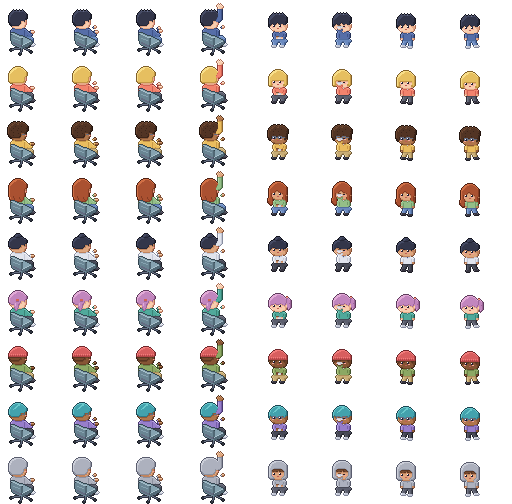
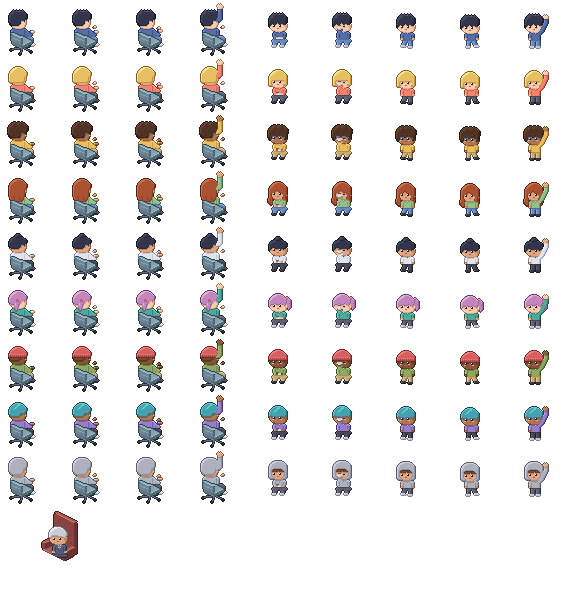
feat(office): boss desk art
Add a walnut executive desk (bossDesk) and the boss, seated in a
high-backed leather chair in a suit with a red tie, sharing one 96x88
frame; the generator clears the boss pixels the desk covers. Add a
standing raised-hand pose (standRaise) to every look for employees
waiting at the boss desk. New ramps: walnut, leather, suit, hairSilver.
The contact sheet shows the boss at the desk.

diff --git a/src/renderer/assets/office/layout.generated.ts b/src/renderer/assets/office/layout.generated.ts
@@ -18,19 +18,20 @@ export const FURNITURE_LAYOUT = {
   sofa: { x: 0, y: 126, w: 72, h: 52, anchorX: 18, anchorY: 24 },
   coffeeTable: { x: 74, y: 126, w: 36, h: 30, anchorX: 14, anchorY: 12 },
   rug: { x: 112, y: 126, w: 80, h: 41, anchorX: 32, anchorY: 0 },
+  bossDesk: { x: 0, y: 180, w: 96, h: 88, anchorX: 24, anchorY: 50 },
 } as const;
 
 /** Character frames in characters.png: one row per look, one column per pose. */
 export const CHARACTER_LAYOUT = {
-  spiky: { sit: { x: 0, y: 0, w: 64, h: 56 }, type1: { x: 64, y: 0, w: 64, h: 56 }, type2: { x: 128, y: 0, w: 64, h: 56 }, raiseHand: { x: 192, y: 0, w: 64, h: 56 }, rest1: { x: 256, y: 0, w: 64, h: 56 }, rest2: { x: 320, y: 0, w: 64, h: 56 }, walk1: { x: 384, y: 0, w: 64, h: 56 }, walk2: { x: 448, y: 0, w: 64, h: 56 } },
-  bob: { sit: { x: 0, y: 56, w: 64, h: 56 }, type1: { x: 64, y: 56, w: 64, h: 56 }, type2: { x: 128, y: 56, w: 64, h: 56 }, raiseHand: { x: 192, y: 56, w: 64, h: 56 }, rest1: { x: 256, y: 56, w: 64, h: 56 }, rest2: { x: 320, y: 56, w: 64, h: 56 }, walk1: { x: 384, y: 56, w: 64, h: 56 }, walk2: { x: 448, y: 56, w: 64, h: 56 } },
-  curly: { sit: { x: 0, y: 112, w: 64, h: 56 }, type1: { x: 64, y: 112, w: 64, h: 56 }, type2: { x: 128, y: 112, w: 64, h: 56 }, raiseHand: { x: 192, y: 112, w: 64, h: 56 }, rest1: { x: 256, y: 112, w: 64, h: 56 }, rest2: { x: 320, y: 112, w: 64, h: 56 }, walk1: { x: 384, y: 112, w: 64, h: 56 }, walk2: { x: 448, y: 112, w: 64, h: 56 } },
-  long: { sit: { x: 0, y: 168, w: 64, h: 56 }, type1: { x: 64, y: 168, w: 64, h: 56 }, type2: { x: 128, y: 168, w: 64, h: 56 }, raiseHand: { x: 192, y: 168, w: 64, h: 56 }, rest1: { x: 256, y: 168, w: 64, h: 56 }, rest2: { x: 320, y: 168, w: 64, h: 56 }, walk1: { x: 384, y: 168, w: 64, h: 56 }, walk2: { x: 448, y: 168, w: 64, h: 56 } },
-  bun: { sit: { x: 0, y: 224, w: 64, h: 56 }, type1: { x: 64, y: 224, w: 64, h: 56 }, type2: { x: 128, y: 224, w: 64, h: 56 }, raiseHand: { x: 192, y: 224, w: 64, h: 56 }, rest1: { x: 256, y: 224, w: 64, h: 56 }, rest2: { x: 320, y: 224, w: 64, h: 56 }, walk1: { x: 384, y: 224, w: 64, h: 56 }, walk2: { x: 448, y: 224, w: 64, h: 56 } },
-  ponytail: { sit: { x: 0, y: 280, w: 64, h: 56 }, type1: { x: 64, y: 280, w: 64, h: 56 }, type2: { x: 128, y: 280, w: 64, h: 56 }, raiseHand: { x: 192, y: 280, w: 64, h: 56 }, rest1: { x: 256, y: 280, w: 64, h: 56 }, rest2: { x: 320, y: 280, w: 64, h: 56 }, walk1: { x: 384, y: 280, w: 64, h: 56 }, walk2: { x: 448, y: 280, w: 64, h: 56 } },
-  beanie: { sit: { x: 0, y: 336, w: 64, h: 56 }, type1: { x: 64, y: 336, w: 64, h: 56 }, type2: { x: 128, y: 336, w: 64, h: 56 }, raiseHand: { x: 192, y: 336, w: 64, h: 56 }, rest1: { x: 256, y: 336, w: 64, h: 56 }, rest2: { x: 320, y: 336, w: 64, h: 56 }, walk1: { x: 384, y: 336, w: 64, h: 56 }, walk2: { x: 448, y: 336, w: 64, h: 56 } },
-  sidepart: { sit: { x: 0, y: 392, w: 64, h: 56 }, type1: { x: 64, y: 392, w: 64, h: 56 }, type2: { x: 128, y: 392, w: 64, h: 56 }, raiseHand: { x: 192, y: 392, w: 64, h: 56 }, rest1: { x: 256, y: 392, w: 64, h: 56 }, rest2: { x: 320, y: 392, w: 64, h: 56 }, walk1: { x: 384, y: 392, w: 64, h: 56 }, walk2: { x: 448, y: 392, w: 64, h: 56 } },
-  hood: { sit: { x: 0, y: 448, w: 64, h: 56 }, type1: { x: 64, y: 448, w: 64, h: 56 }, type2: { x: 128, y: 448, w: 64, h: 56 }, raiseHand: { x: 192, y: 448, w: 64, h: 56 }, rest1: { x: 256, y: 448, w: 64, h: 56 }, rest2: { x: 320, y: 448, w: 64, h: 56 }, walk1: { x: 384, y: 448, w: 64, h: 56 }, walk2: { x: 448, y: 448, w: 64, h: 56 } },
+  spiky: { sit: { x: 0, y: 0, w: 64, h: 56 }, type1: { x: 64, y: 0, w: 64, h: 56 }, type2: { x: 128, y: 0, w: 64, h: 56 }, raiseHand: { x: 192, y: 0, w: 64, h: 56 }, rest1: { x: 256, y: 0, w: 64, h: 56 }, rest2: { x: 320, y: 0, w: 64, h: 56 }, walk1: { x: 384, y: 0, w: 64, h: 56 }, walk2: { x: 448, y: 0, w: 64, h: 56 }, standRaise: { x: 512, y: 0, w: 64, h: 56 } },
+  bob: { sit: { x: 0, y: 56, w: 64, h: 56 }, type1: { x: 64, y: 56, w: 64, h: 56 }, type2: { x: 128, y: 56, w: 64, h: 56 }, raiseHand: { x: 192, y: 56, w: 64, h: 56 }, rest1: { x: 256, y: 56, w: 64, h: 56 }, rest2: { x: 320, y: 56, w: 64, h: 56 }, walk1: { x: 384, y: 56, w: 64, h: 56 }, walk2: { x: 448, y: 56, w: 64, h: 56 }, standRaise: { x: 512, y: 56, w: 64, h: 56 } },
+  curly: { sit: { x: 0, y: 112, w: 64, h: 56 }, type1: { x: 64, y: 112, w: 64, h: 56 }, type2: { x: 128, y: 112, w: 64, h: 56 }, raiseHand: { x: 192, y: 112, w: 64, h: 56 }, rest1: { x: 256, y: 112, w: 64, h: 56 }, rest2: { x: 320, y: 112, w: 64, h: 56 }, walk1: { x: 384, y: 112, w: 64, h: 56 }, walk2: { x: 448, y: 112, w: 64, h: 56 }, standRaise: { x: 512, y: 112, w: 64, h: 56 } },
+  long: { sit: { x: 0, y: 168, w: 64, h: 56 }, type1: { x: 64, y: 168, w: 64, h: 56 }, type2: { x: 128, y: 168, w: 64, h: 56 }, raiseHand: { x: 192, y: 168, w: 64, h: 56 }, rest1: { x: 256, y: 168, w: 64, h: 56 }, rest2: { x: 320, y: 168, w: 64, h: 56 }, walk1: { x: 384, y: 168, w: 64, h: 56 }, walk2: { x: 448, y: 168, w: 64, h: 56 }, standRaise: { x: 512, y: 168, w: 64, h: 56 } },
+  bun: { sit: { x: 0, y: 224, w: 64, h: 56 }, type1: { x: 64, y: 224, w: 64, h: 56 }, type2: { x: 128, y: 224, w: 64, h: 56 }, raiseHand: { x: 192, y: 224, w: 64, h: 56 }, rest1: { x: 256, y: 224, w: 64, h: 56 }, rest2: { x: 320, y: 224, w: 64, h: 56 }, walk1: { x: 384, y: 224, w: 64, h: 56 }, walk2: { x: 448, y: 224, w: 64, h: 56 }, standRaise: { x: 512, y: 224, w: 64, h: 56 } },
+  ponytail: { sit: { x: 0, y: 280, w: 64, h: 56 }, type1: { x: 64, y: 280, w: 64, h: 56 }, type2: { x: 128, y: 280, w: 64, h: 56 }, raiseHand: { x: 192, y: 280, w: 64, h: 56 }, rest1: { x: 256, y: 280, w: 64, h: 56 }, rest2: { x: 320, y: 280, w: 64, h: 56 }, walk1: { x: 384, y: 280, w: 64, h: 56 }, walk2: { x: 448, y: 280, w: 64, h: 56 }, standRaise: { x: 512, y: 280, w: 64, h: 56 } },
+  beanie: { sit: { x: 0, y: 336, w: 64, h: 56 }, type1: { x: 64, y: 336, w: 64, h: 56 }, type2: { x: 128, y: 336, w: 64, h: 56 }, raiseHand: { x: 192, y: 336, w: 64, h: 56 }, rest1: { x: 256, y: 336, w: 64, h: 56 }, rest2: { x: 320, y: 336, w: 64, h: 56 }, walk1: { x: 384, y: 336, w: 64, h: 56 }, walk2: { x: 448, y: 336, w: 64, h: 56 }, standRaise: { x: 512, y: 336, w: 64, h: 56 } },
+  sidepart: { sit: { x: 0, y: 392, w: 64, h: 56 }, type1: { x: 64, y: 392, w: 64, h: 56 }, type2: { x: 128, y: 392, w: 64, h: 56 }, raiseHand: { x: 192, y: 392, w: 64, h: 56 }, rest1: { x: 256, y: 392, w: 64, h: 56 }, rest2: { x: 320, y: 392, w: 64, h: 56 }, walk1: { x: 384, y: 392, w: 64, h: 56 }, walk2: { x: 448, y: 392, w: 64, h: 56 }, standRaise: { x: 512, y: 392, w: 64, h: 56 } },
+  hood: { sit: { x: 0, y: 448, w: 64, h: 56 }, type1: { x: 64, y: 448, w: 64, h: 56 }, type2: { x: 128, y: 448, w: 64, h: 56 }, raiseHand: { x: 192, y: 448, w: 64, h: 56 }, rest1: { x: 256, y: 448, w: 64, h: 56 }, rest2: { x: 320, y: 448, w: 64, h: 56 }, walk1: { x: 384, y: 448, w: 64, h: 56 }, walk2: { x: 448, y: 448, w: 64, h: 56 }, standRaise: { x: 512, y: 448, w: 64, h: 56 } },
 } as const;
 
 export const GENERIC_LOOK_ID = 'hood';
@@ -42,3 +43,10 @@ export const STATION_LAYOUT = { w: 64, h: 56, deskX: 28, deskY: 26, seatX: 22, s
 export const SOFA_SEAT_LAYOUT = [{ x: 20, y: 36 }, { x: 42, y: 47 }] as const;
 
 export const TILE_LAYOUT = { w: 32, h: 16 } as const;
+
+/**
+ * The boss in characters.png. It shares its frame and origin with the
+ * bossDesk sprite: deskX/deskY is the desk footprint's north corner, seatX/seatY
+ * the boss chair's centre on the floor. Draw it over the desk at the same top-left.
+ */
+export const BOSS_LAYOUT = { x: 0, y: 504, w: 96, h: 88, deskX: 24, deskY: 50, seatX: 58, seatY: 57 } as const;

diff --git a/src/renderer/assets/office/index.ts b/src/renderer/assets/office/index.ts
@@ -14,9 +14,12 @@
 //   at an empty desk.
 // - Characters are anchored at `STATION.seatX/seatY` (the chair's centre on
 //   the floor). A resting character goes on a sofa seat (`SOFA_SEATS`).
+// - The boss desk (`OFFICE_EXTRAS.bossDesk`) and the seated boss (`BOSS`)
+//   share one frame: draw the desk, then the boss at the same top-left.
 import charactersUrl from './characters.png';
 import furnitureUrl from './furniture.png';
 import {
+  BOSS_LAYOUT,
   CHARACTER_LAYOUT,
   FURNITURE_LAYOUT,
   GENERIC_LOOK_ID,
@@ -33,7 +36,7 @@ export interface SpriteRef {
   h: number;
 }
 
-export const CHARACTER_POSES = ['sit', 'type1', 'type2', 'raiseHand', 'rest1', 'rest2', 'walk1', 'walk2'] as const;
+export const CHARACTER_POSES = ['sit', 'type1', 'type2', 'raiseHand', 'rest1', 'rest2', 'walk1', 'walk2', 'standRaise'] as const;
 export type CharacterPose = (typeof CHARACTER_POSES)[number];
 
 export interface CharacterSheet {
@@ -53,8 +56,8 @@ export type FurnitureKey =
   | 'sofa'
   | 'shelf';
 
-/** Room pieces beyond the required set: the left wall, a carpet tile, lounge props. */
-export type OfficeExtraKey = 'wallLeft' | 'windowLeft' | 'carpet' | 'rug' | 'coffeeTable';
+/** Room pieces beyond the required set: the left wall, a carpet tile, lounge props, the boss desk. */
+export type OfficeExtraKey = 'wallLeft' | 'windowLeft' | 'carpet' | 'rug' | 'coffeeTable' | 'bossDesk';
 
 /** Isometric floor tile size in px (2:1). */
 export const OFFICE_TILE: { w: number; h: number } = { w: TILE_LAYOUT.w, h: TILE_LAYOUT.h };
@@ -85,6 +88,7 @@ export const OFFICE_EXTRAS: Record<OfficeExtraKey, SpriteRef> = {
   carpet: furnitureRef('carpet'),
   rug: furnitureRef('rug'),
   coffeeTable: furnitureRef('coffeeTable'),
+  bossDesk: furnitureRef('bossDesk'),
 };
 
 /** Per sprite: the pixel (in the sprite) that sits on its floor reference point. */
@@ -128,3 +132,14 @@ export const CHARACTERS: CharacterSheet[] = LOOK_IDS.filter((id) => id !== GENER
 
 /** The look for agents that are neither Claude Code nor Codex (hood up). */
 export const GENERIC_CHARACTER: CharacterSheet = sheetFor(GENERIC_LOOK_ID);
+
+/**
+ * The boss, seated in a high-backed chair behind the boss desk (pixels the
+ * desk covers are already cleared). Shares the bossDesk sprite's frame:
+ * `deskX/deskY` is the north corner of the desk's footprint (the desk's
+ * anchor), `seatX/seatY` the boss chair's centre on the floor.
+ */
+export const BOSS: SpriteRef & { deskX: number; deskY: number; seatX: number; seatY: number } = {
+  src: charactersUrl,
+  ...BOSS_LAYOUT,
+};

diff --git a/docs/office-art.md b/docs/office-art.md
@@ -50,28 +50,42 @@ room (`floor`, `carpet`, `rug`, `wall`, `wallSide`, `baseboard`, `glass`,
 `pot`, `soil`, `paper`), accents and clothes (`coral`, `navy`, `mustard`,
 `sage`, `teal`, `purple`, `olive`, `hoodie`, `shirt`, `red`, `denim`,
 `charcoal`, `khaki`, `black`, `shoe`, `sneaker`), four skin ramps
-(`skin1`..`skin4`) and seven hair ramps. Add a colour as a new ramp here
+(`skin1`..`skin4`), eight hair ramps (`hairSilver` is the boss's), and the
+boss desk's `walnut`, its chair's `leather` and the boss's `suit`. Add a colour as a new ramp here
 rather than as a one-off hex value elsewhere.
 
 ## Sheets and frame layout
 
-`furniture.png` (262x178) packs every room piece; rectangles and anchors are
+`furniture.png` (262x268) packs every room piece; rectangles and anchors are
 in `layout.generated.ts` and exported from `index.ts`:
 
 - `FURNITURE`: `floor`, `wall`, `window`, `desk`, `monitorOff`, `monitorOn`,
   `chair`, `plant`, `sofa`, `shelf`.
 - `OFFICE_EXTRAS`: `wallLeft`, `windowLeft` (the left wall, mirrored and
   shaded darker), `carpet` (a floor tile for the work area), `rug`,
-  `coffeeTable`.
+  `coffeeTable`, `bossDesk` (a 3-tile walnut executive desk, 96x88 frame).
 - `FURNITURE_ANCHORS`: per sprite, the pixel that sits on its floor reference
   point (tile top corner for floors; the segment's north corner on the floor
   for walls; the north corner of the footprint for furniture).
 
-`characters.png` (512x504) holds one row per look and one column per pose,
+`characters.png` (576x592) holds one row per look and one column per pose,
 each frame 64x56: `sit`, `type1`, `type2`, `raiseHand`, `rest1`, `rest2`,
-`walk1`, `walk2`. The rows are the eight `CHARACTERS` (`spiky`, `bob`,
-`curly`, `long`, `bun`, `ponytail`, `beanie`, `sidepart`) and then
-`GENERIC_CHARACTER` (`hood`) for agents that are neither Claude Code nor Codex.
+`walk1`, `walk2`, `standRaise` (standing, a hand up: waiting at the boss
+desk). The rows are the eight `CHARACTERS` (`spiky`, `bob`, `curly`, `long`,
+`bun`, `ponytail`, `beanie`, `sidepart`) and then `GENERIC_CHARACTER`
+(`hood`) for agents that are neither Claude Code nor Codex. Below them is
+`BOSS`: one 96x88 frame of the boss (silver hair, suit and red tie) seated in
+a high-backed leather chair.
+
+### The boss frame
+
+The `bossDesk` sprite and `BOSS` share one 96x88 frame. Draw the desk, then
+the boss at the same top-left: the generator already cleared every boss pixel
+the desk covers, so the boss sits behind it. `deskX/deskY` is the north corner
+of the desk's footprint (48 along `a`, 20 along `b`; the desk's anchor) and
+`seatX/seatY` the boss chair's centre on the floor, 10 units behind the desk.
+The boss faces the room (south-west) and is the only front-facing seated
+figure.
 
 ### The station frame
 
